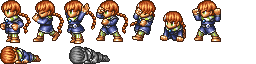
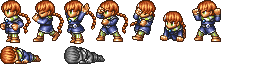
sort useless files

Changed region(s): [[0.25, 0.7188, 0.4375, 1.0]]

diff --git a/tutoBatailleNavale/src/gameMechanic/Shaman.java b/tutoBatailleNavale/src/gameMechanic/Shaman.java
@@ -30,6 +30,9 @@ public class Shaman extends Personnage{
 		super.regions[4] = new TextureRegion(super.sprite, 128, 0, 28, 44);
 		super.regions[5] = new TextureRegion(super.sprite, 160, 0, 26, 44);
 		super.regions[6] = new TextureRegion(super.sprite, 191, 0, 30, 44);
+		super.regions[7] = new TextureRegion(super.sprite, 0, 44, 41, 20);
+		super.regions[8] = new TextureRegion(super.sprite, 64, 44, 41, 20);
+
 
 	}
 }

diff --git a/tutoBatailleNavale/src/gameMechanic/Personnage.java b/tutoBatailleNavale/src/gameMechanic/Personnage.java
@@ -19,7 +19,7 @@ public abstract class Personnage {
 	public String name;
 	public ArrayList<Skill> listSkills;
 	public Texture sprite;
-    public TextureRegion[]	regions = new TextureRegion[7]; // #2
+    public TextureRegion[]	regions = new TextureRegion[9]; // #2
 
 
 	public Personnage(String name){
